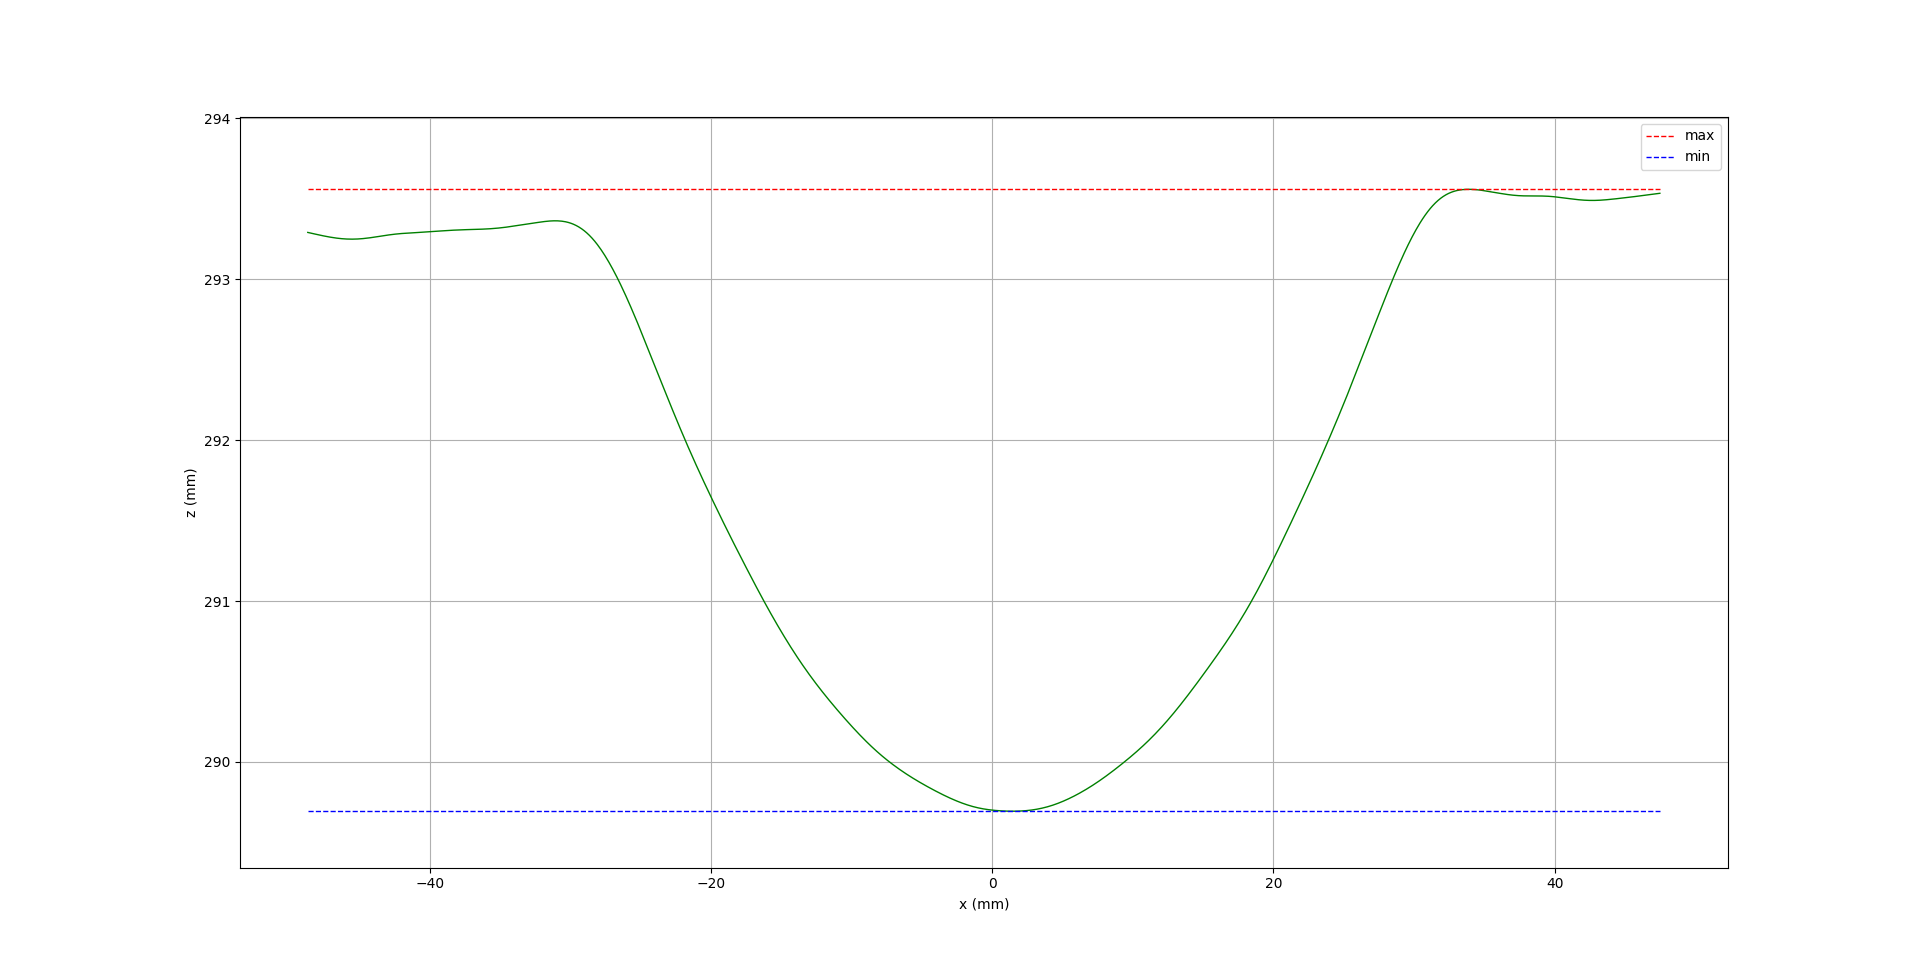
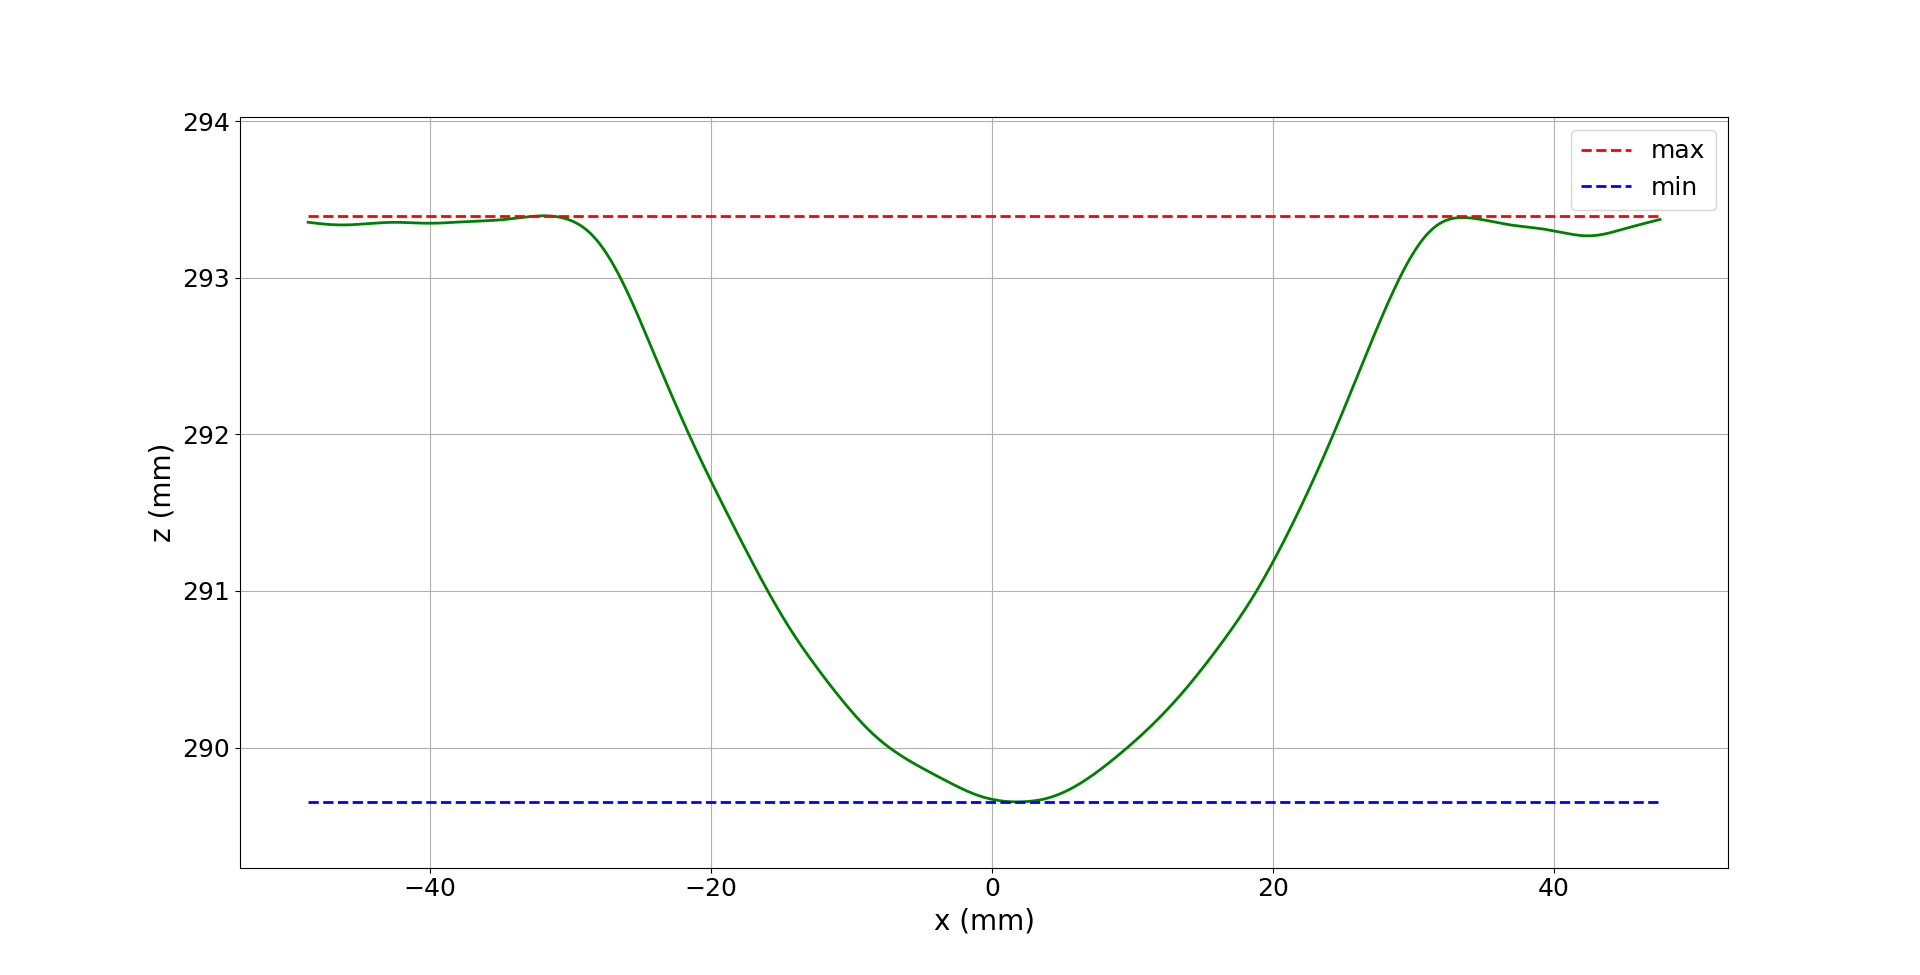
improve picture

diff --git a/contiuouslasertest.py b/contiuouslasertest.py
@@ -154,21 +154,34 @@ class LivePlot:
 
         # Matplotlib
         if self.mode == "single":
+            # Increase font sizes / linewidths for PPT export
+            plt.rcParams.update({
+            "font.size": 18,
+            "axes.labelsize": 20,
+            "axes.titlesize": 22,
+            "xtick.labelsize": 18,
+            "ytick.labelsize": 18,
+            "legend.fontsize": 18,
+            "lines.linewidth": 2,
+            })
+
             # Single realtime plot: x vs z with a full-range y-axis (no calibration)
-            self.fig, self.ax_single = plt.subplots(figsize=(7, 5), facecolor="white")
+            self.fig, self.ax_single = plt.subplots(figsize=(10, 6), facecolor="white")
             self.ax_single.grid(True)
-            self.ax_single.set_xlabel("x (mm)")
-            self.ax_single.set_ylabel("z (mm)")
-            (self.line_single,) = self.ax_single.plot([], [], "g-", lw=1)
-            # Max and min lines
-            (self.line_max,) = self.ax_single.plot([], [], "r--", lw=1, label="max")
-            (self.line_min,) = self.ax_single.plot([], [], "b--", lw=1, label="min")
-            self.ax_single.legend(loc="upper right")
+            self.ax_single.set_xlabel("x (mm)", fontsize=20)
+            self.ax_single.set_ylabel("z (mm)", fontsize=20)
+            (self.line_single,) = self.ax_single.plot([], [], "g-", lw=2)
+            # Max and min lines (thicker for visibility)
+            (self.line_max,) = self.ax_single.plot([], [], "r--", lw=2, label="max")
+            (self.line_min,) = self.ax_single.plot([], [], "b--", lw=2, label="min")
+            self.ax_single.legend(loc="upper right", fontsize=18)
             # Ensure tick labels show plain mm without scientific offsets
             for axis in (self.ax_single.xaxis, self.ax_single.yaxis):
                 fmt = ScalarFormatter(useOffset=False)
                 fmt.set_scientific(False)
                 axis.set_major_formatter(fmt)
+            # Larger tick label rendering
+            self.ax_single.tick_params(axis="both", which="major", labelsize=18)
             # Track global min/max encountered to avoid jittery autoscale
             self.global_z_min = np.inf
             self.global_z_max = -np.inf
